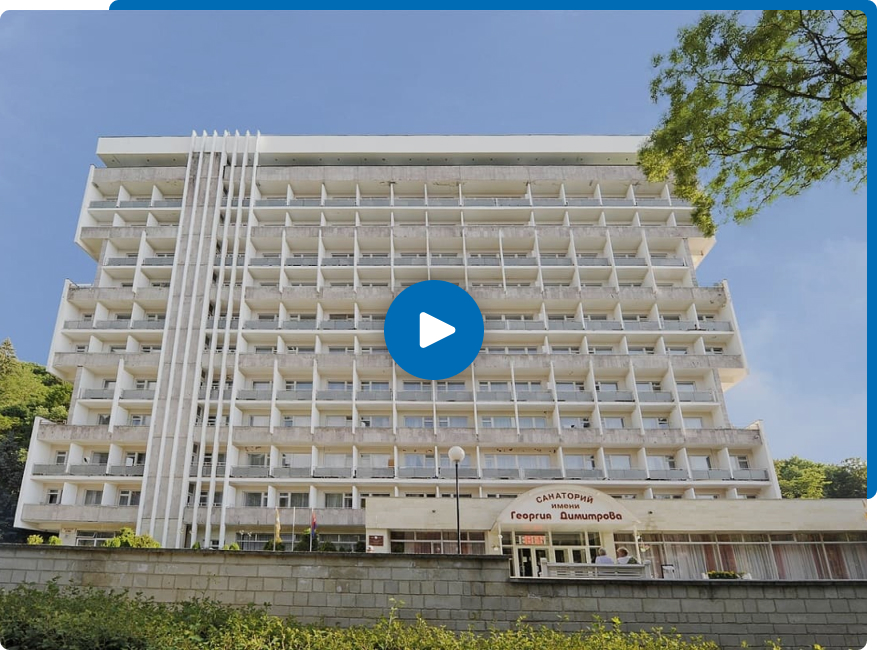
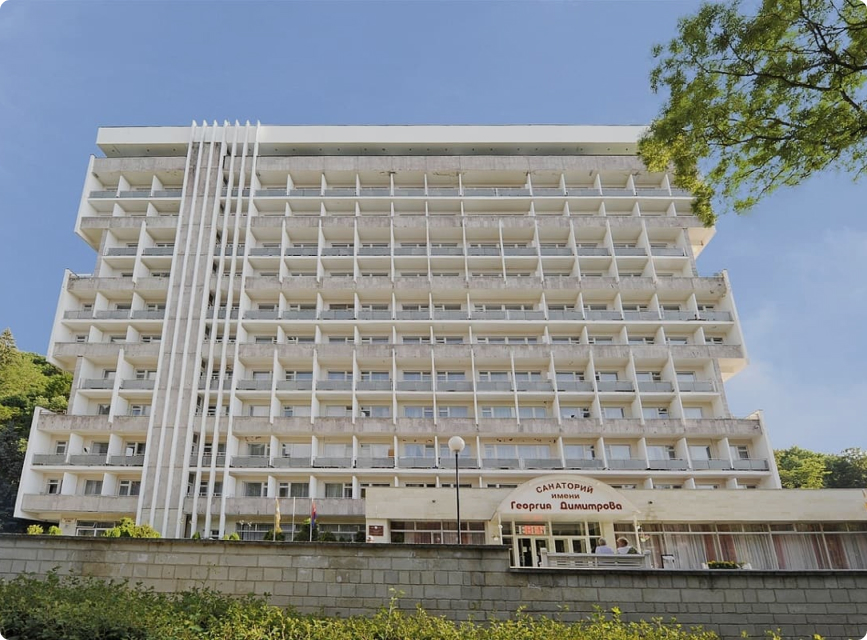
added video

diff --git a/less/blocks/_section-about-sanatorium.less b/less/blocks/_section-about-sanatorium.less
@@ -7,7 +7,6 @@
 .about-sanatorium__row{
     display: flex;
     justify-content: space-between;
-    // align-items: center;
     margin-bottom: 100px;
 
     &:last-child {
@@ -69,35 +68,129 @@
 }
 
 .about-sanatorium__right-col {
-
+    position: relative;
+    max-height: 650px;
+    background-image: url('../img/blue-square.jpg');
+    background-repeat: no-repeat;
+    background-position: right top;
 }
 
-.about-sanatorium__video--wrapper {
+// .about-sanatorium__video--wrapper {
+    
+// }
 
-}
+// .about-sanatorium__video {
+//     margin-top: 10px;
+//     margin-right: 10px;
+//     border-radius: 10px;
+// }
 
-.about-sanatorium__video {
+
+.video_wrapper {
+    width: 867px;
+    height: 640px;
+    margin-top: 10px;
+    margin-right: 10px;
+    position: relative;
+    background-color: #000;
     border-radius: 10px;
-   
 }
 
-.about-sanatorium__video {
-    max-width: 877px;  
+.video_wrapper_full {
+    padding-top: 315px;
+}
+  
+  
+.videoIframe {
+    
+    position: absolute;
+    top: 0;
+    bottom: 0;
+    right: 0;
+    left: 0;
+    border-radius: 10px;
+    width: 100%;
+    height: 100%;
+    background-color: transparent;
+}
+  
+.videoPoster {
+    border-radius: 10px;
 
+    position: absolute;
+    top: 0px;
+    left: 0px;
+    width: 100%;
+    height: 100%;
+    background-image:url('../img/about-video.jpg');
+    background-size: 100%;
+    border: none;
+    outline: none;
+    text-indent: -999em;
+    overflow: hidden;
+    opacity: 1;
+    -webkit-transition: opacity 800ms, height 0s;
+    -moz-transition: opacity 800ms, height 0s;
+    transition: opacity 800ms, height 0s;
+    -webkit-transition-delay: 0s, 0s;
+    -moz-transition-delay: 0s, 0s;
+    transition-delay: 0s, 0s;
+}
+.videoPoster:hover {
+    cursor: pointer;
+}
+.videoPoster:before {
+    
+    content: '';
+    position: absolute;
+    top: 50%;
+    left: 50%;
+    width: 80px;
+    height: 80px;
+    margin: -40px 0 0 -40px;
+    border: 5px solid #006CB5;
+    // filter: drop-shadow(0px 0px 25px rgba(0, 0, 0, 0.35));
+    background-color: #006CB5;
+    border-radius: 100%;
+    -webkit-transition: border-color 300ms;
+    -moz-transition: border-color 300ms;
+    transition: border-color 300ms;
+}
+.videoPoster:after {
+      content: '';
+      position: absolute;
+      top: 50%;
+      left: 50%;
+      width: 0;
+      height: 0;
+      margin: -20px 0 0 -10px;
+      border-left: 40px solid #fff;
+      border-top: 25px solid transparent;
+      border-bottom: 25px solid transparent;;
+      -webkit-transition: border-color 300ms;
+      -moz-transition: border-color 300ms;
+      transition: border-color 300ms;
+}
+// .videoPoster:hover:before,  .videoPoster:focus:before {
+//     //   border-color: #006CB5;
+// }
+// .videoPoster:hover:after, .videoPoster:focus:after {
+//     // border-left-color: #f00;
+// }
 
-    img {
-        max-width: 100%;  
-        height: auto;  
-        display: block;
-        background: linear-gradient(0deg, rgba(0, 0, 0, 0.1), rgba(0, 0, 0, 0.1)), url(image.png);
-        border-radius: 10px;
-    }
+.videoWrapperActive .videoPoster {
+    opacity: 0;
+    height: 0;
+    -webkit-transition-delay: 0s, 800ms;
+    -moz-transition-delay: 0s, 800ms;
+    transition-delay: 0s, 800ms;
 }
 
 // ---------------- карточки ----------------
 
 .about__block-link-wrapper {
     transition: all 0.2s ease-in;
+    
 
     &:hover {
         transform: translateY(-40px)

diff --git a/css/main.css b/css/main.css
@@ -607,19 +607,91 @@ a {
           box-shadow: 0px 4px 20px rgba(0, 61, 102, 0.15);
   border-radius: 5px;
 }
-.about-sanatorium__video {
+.about-sanatorium__right-col {
+  position: relative;
+  max-height: 650px;
+  background-image: url('../img/blue-square.jpg');
+  background-repeat: no-repeat;
+  background-position: right top;
+}
+.video_wrapper {
+  width: 867px;
+  height: 640px;
+  margin-top: 10px;
+  margin-right: 10px;
+  position: relative;
+  background-color: #000;
   border-radius: 10px;
 }
-.about-sanatorium__video {
-  max-width: 877px;
+.video_wrapper_full {
+  padding-top: 315px;
 }
-.about-sanatorium__video img {
-  max-width: 100%;
-  height: auto;
-  display: block;
-  background: -webkit-gradient(linear, left bottom, left top, from(rgba(0, 0, 0, 0.1)), to(rgba(0, 0, 0, 0.1))), url(image.png);
-  background: linear-gradient(0deg, rgba(0, 0, 0, 0.1), rgba(0, 0, 0, 0.1)), url(image.png);
+.videoIframe {
+  position: absolute;
+  top: 0;
+  bottom: 0;
+  right: 0;
+  left: 0;
   border-radius: 10px;
+  width: 100%;
+  height: 100%;
+  background-color: transparent;
+}
+.videoPoster {
+  border-radius: 10px;
+  position: absolute;
+  top: 0px;
+  left: 0px;
+  width: 100%;
+  height: 100%;
+  background-image: url('../img/about-video.jpg');
+  background-size: 100%;
+  border: none;
+  outline: none;
+  text-indent: -999em;
+  overflow: hidden;
+  opacity: 1;
+  -webkit-transition: opacity 800ms, height 0s;
+  transition: opacity 800ms, height 0s;
+  -webkit-transition-delay: 0s, 0s;
+  transition-delay: 0s, 0s;
+}
+.videoPoster:hover {
+  cursor: pointer;
+}
+.videoPoster:before {
+  content: '';
+  position: absolute;
+  top: 50%;
+  left: 50%;
+  width: 80px;
+  height: 80px;
+  margin: -40px 0 0 -40px;
+  border: 5px solid #006CB5;
+  background-color: #006CB5;
+  border-radius: 100%;
+  -webkit-transition: border-color 300ms;
+  transition: border-color 300ms;
+}
+.videoPoster:after {
+  content: '';
+  position: absolute;
+  top: 50%;
+  left: 50%;
+  width: 0;
+  height: 0;
+  margin: -20px 0 0 -10px;
+  border-left: 40px solid #fff;
+  border-top: 25px solid transparent;
+  border-bottom: 25px solid transparent;
+  -webkit-transition: border-color 300ms;
+  transition: border-color 300ms;
+}
+.videoWrapperActive .videoPoster {
+  opacity: 0;
+  height: 0;
+  -webkit-transition-delay: 0s, 800ms;
+  transition-delay: 0s, 800ms;
 }
 .about__block-link-wrapper {
   -webkit-transition: all 0.2s ease-in;

diff --git a/index.html b/index.html
@@ -234,12 +234,21 @@
 
                     <div class="about-sanatorium__right-col">
                         
-                        <!-- <div class="about-sanatorium__video--wrapper">
-                            <iframe class="about-sanatorium__video" width="867" height="640" src="https://www.youtube.com/embed/Leoo2bJ5Vik" frameborder="0" allow="accelerometer; autoplay; clipboard-write; encrypted-media; gyroscope; picture-in-picture" allowfullscreen></iframe> -->
+                        <!-- <div class="about-sanatorium__video--wrapper"> -->
+                            <!-- <iframe class="about-sanatorium__video" width="867" height="640" src="https://www.youtube.com/embed/Leoo2bJ5Vik" frameborder="0" allow="accelerometer; autoplay; clipboard-write; encrypted-media; gyroscope; picture-in-picture" allowfullscreen></iframe> -->
+                            
 
                             <!-- <img class="" src="img/about-video.jpg" alt=""> -->
                             <!-- <div class="about-sanatorium__bg-square"></div> -->
                         <!-- </div> -->
+
+
+
+                        <div class="video_wrapper video_wrapper_full js-videoWrapper">
+                            <iframe class="videoIframe js-videoIframe" frameborder="0" allowTransparency="true" data-src="https://www.youtube.com/embed/Leoo2bJ5Vik?modestbranding=1&iv_load_policy=3" allowfullscreen></iframe>
+                            <button class="videoPoster js-videoPoster"></button>                    
+                        </div>
+
                     </div>
                 </div>
 
@@ -910,6 +919,7 @@
         </section>
         <!-- // section__room-fund -->
 
+        <!-- section__sanatorium-progs -->
         <section class="section__sanatorium-progs">
 
             <div class="container">
@@ -1027,8 +1037,11 @@
             </div>
 
         </section>
+        <!-- // section__sanatorium-progs -->
 
     </main>
+
+    <script src="https://code.jquery.com/jquery-1.8.3.js"></script>
 
     <!-- Собственные скрипты и вызовы библиотек -->
     <script src="js/main.js"></script>

diff --git a/js/main.js b/js/main.js
@@ -2,3 +2,24 @@
 var bg = document.getElementById('menu-icon-line');
 document.getElementById('header__menu').addEventListener("mouseover", function(){bg.style.background = "#006CB5";this.addEventListener("mouseout", function(){bg.style.background = "";});
 });
+
+// Видео
+$(document).on('click','.js-videoPoster',function(e) {
+    //отменяем стандартное действие button
+    e.preventDefault();
+    var poster = $(this);
+    // ищем родителя ближайшего по классу
+    var wrapper = poster.closest('.js-videoWrapper');
+    videoPlay(wrapper);
+  });
+  
+  //вопроизводим видео, при этом скрывая постер
+  function videoPlay(wrapper) {
+    var iframe = wrapper.find('.js-videoIframe');
+    // Берем ссылку видео из data
+    var src = iframe.data('src');
+    // скрываем постер
+    wrapper.addClass('videoWrapperActive');
+    // подставляем в src параметр из data
+    iframe.attr('src',src);
+  }
